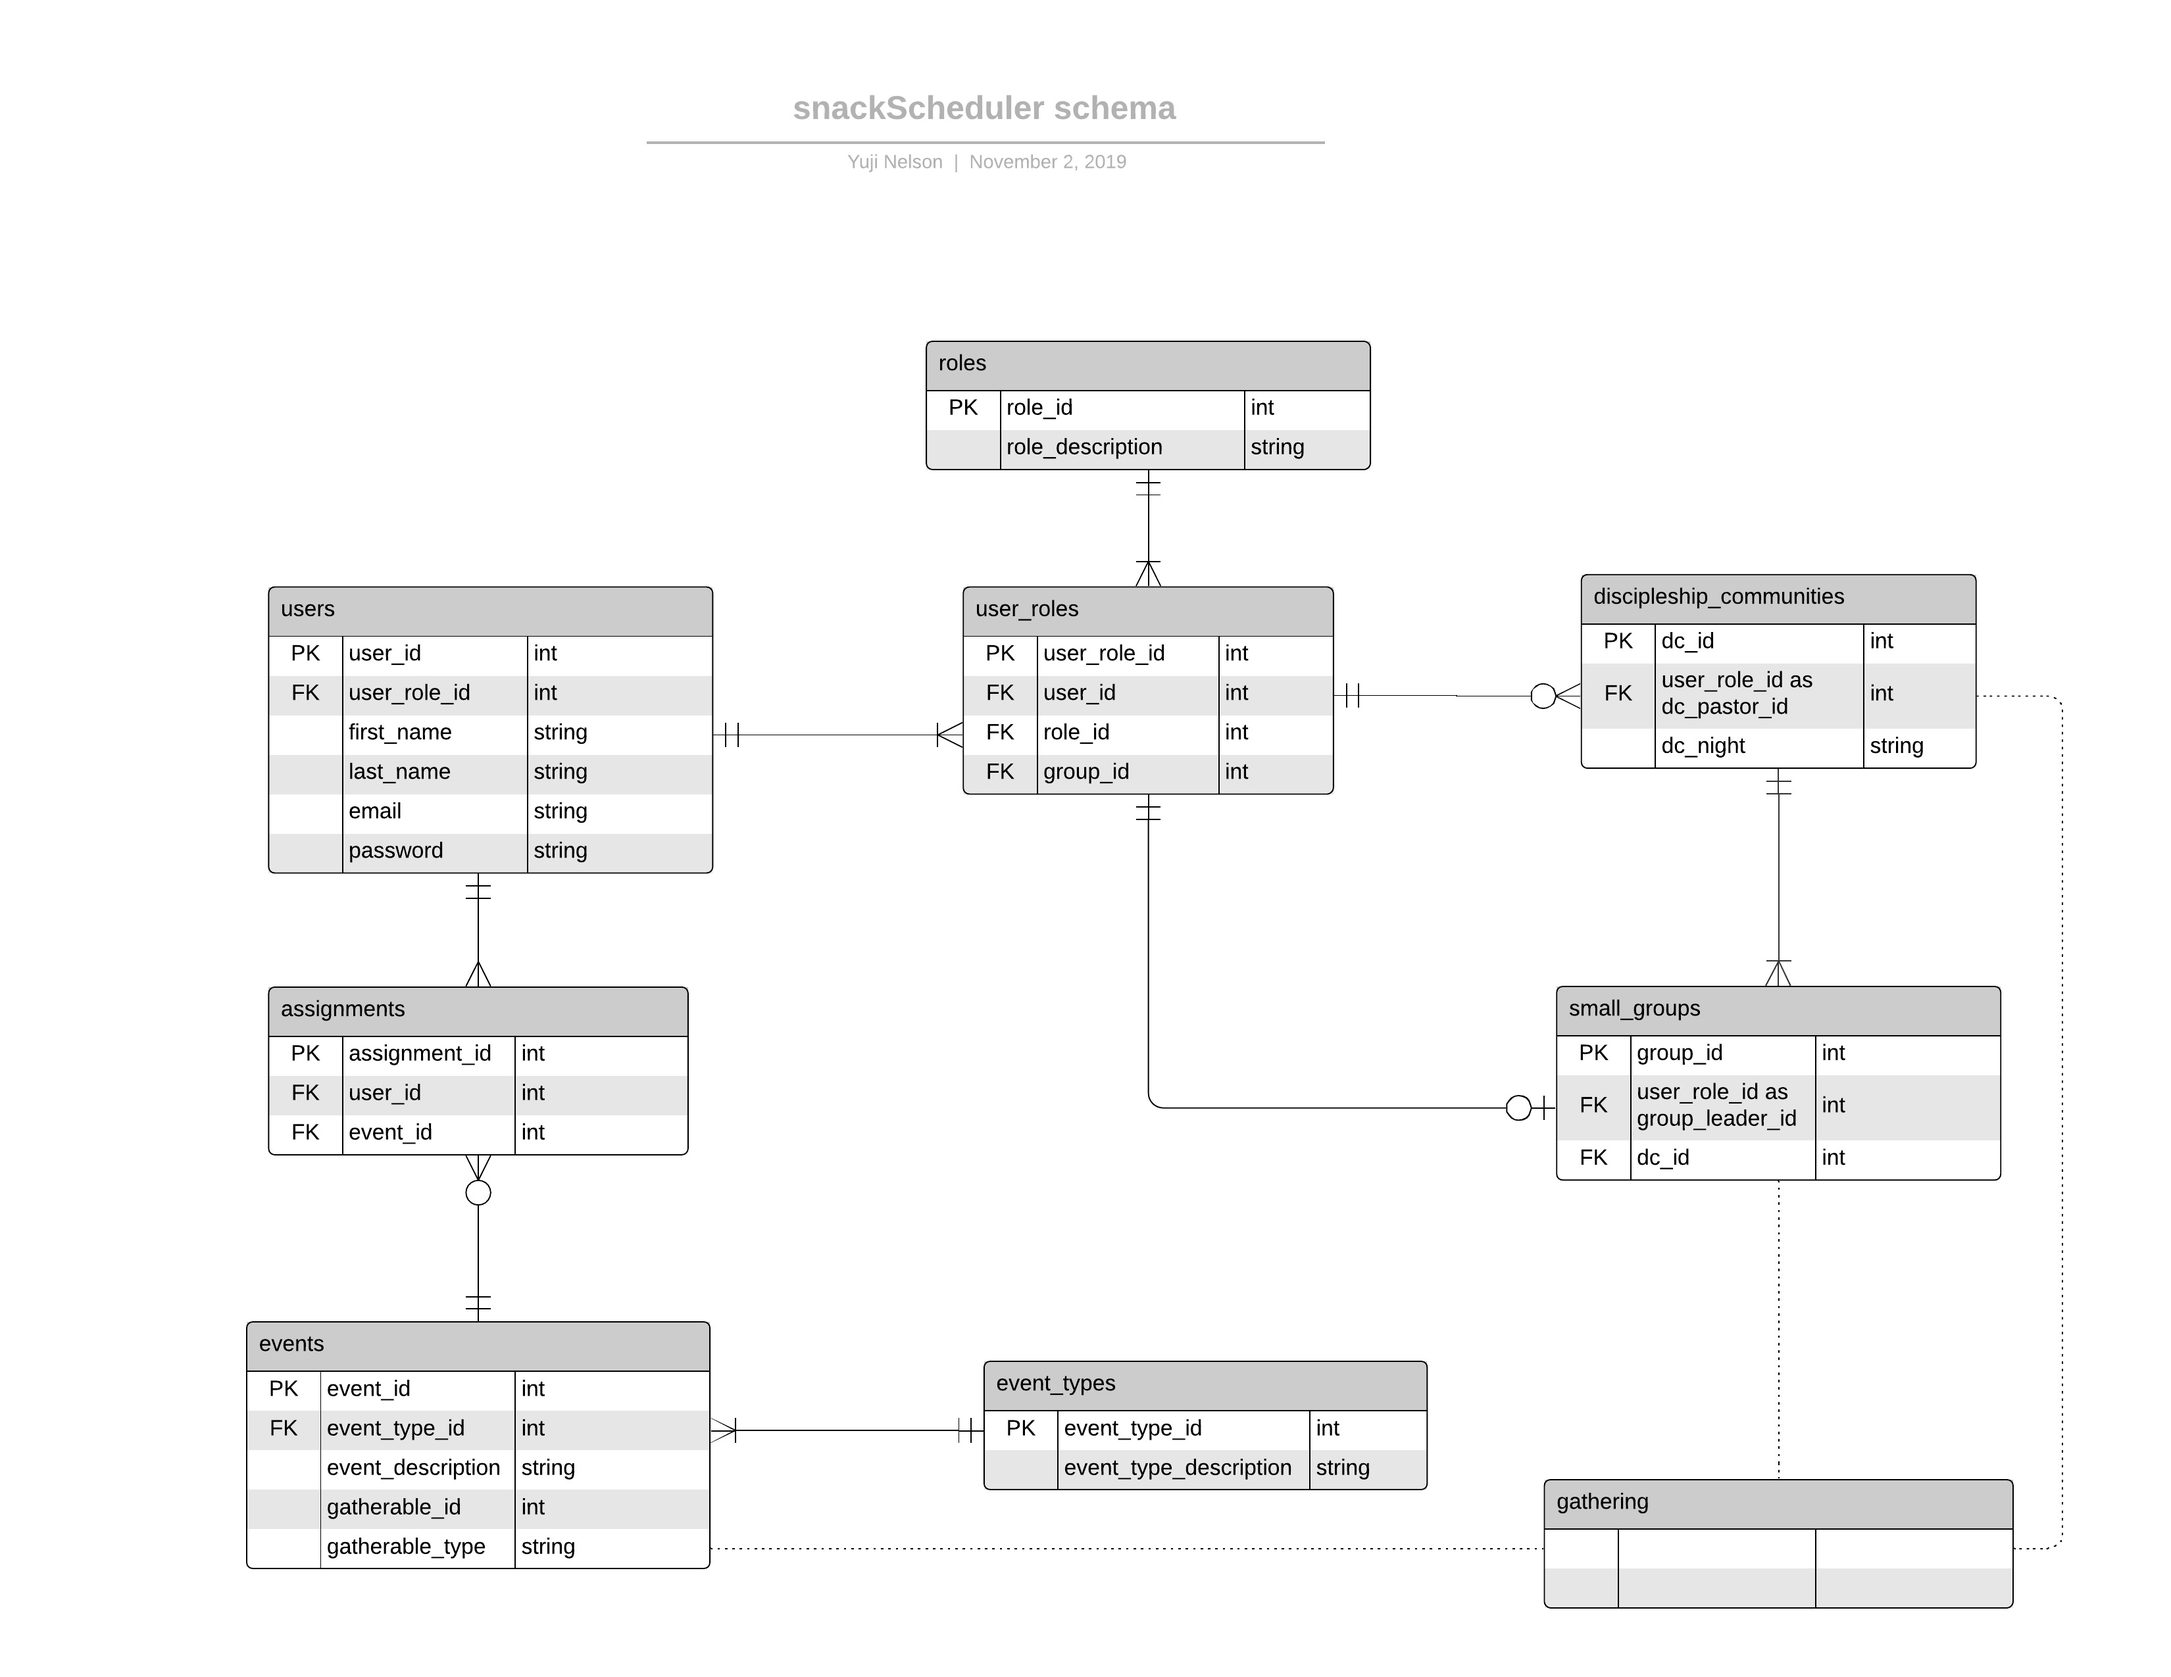
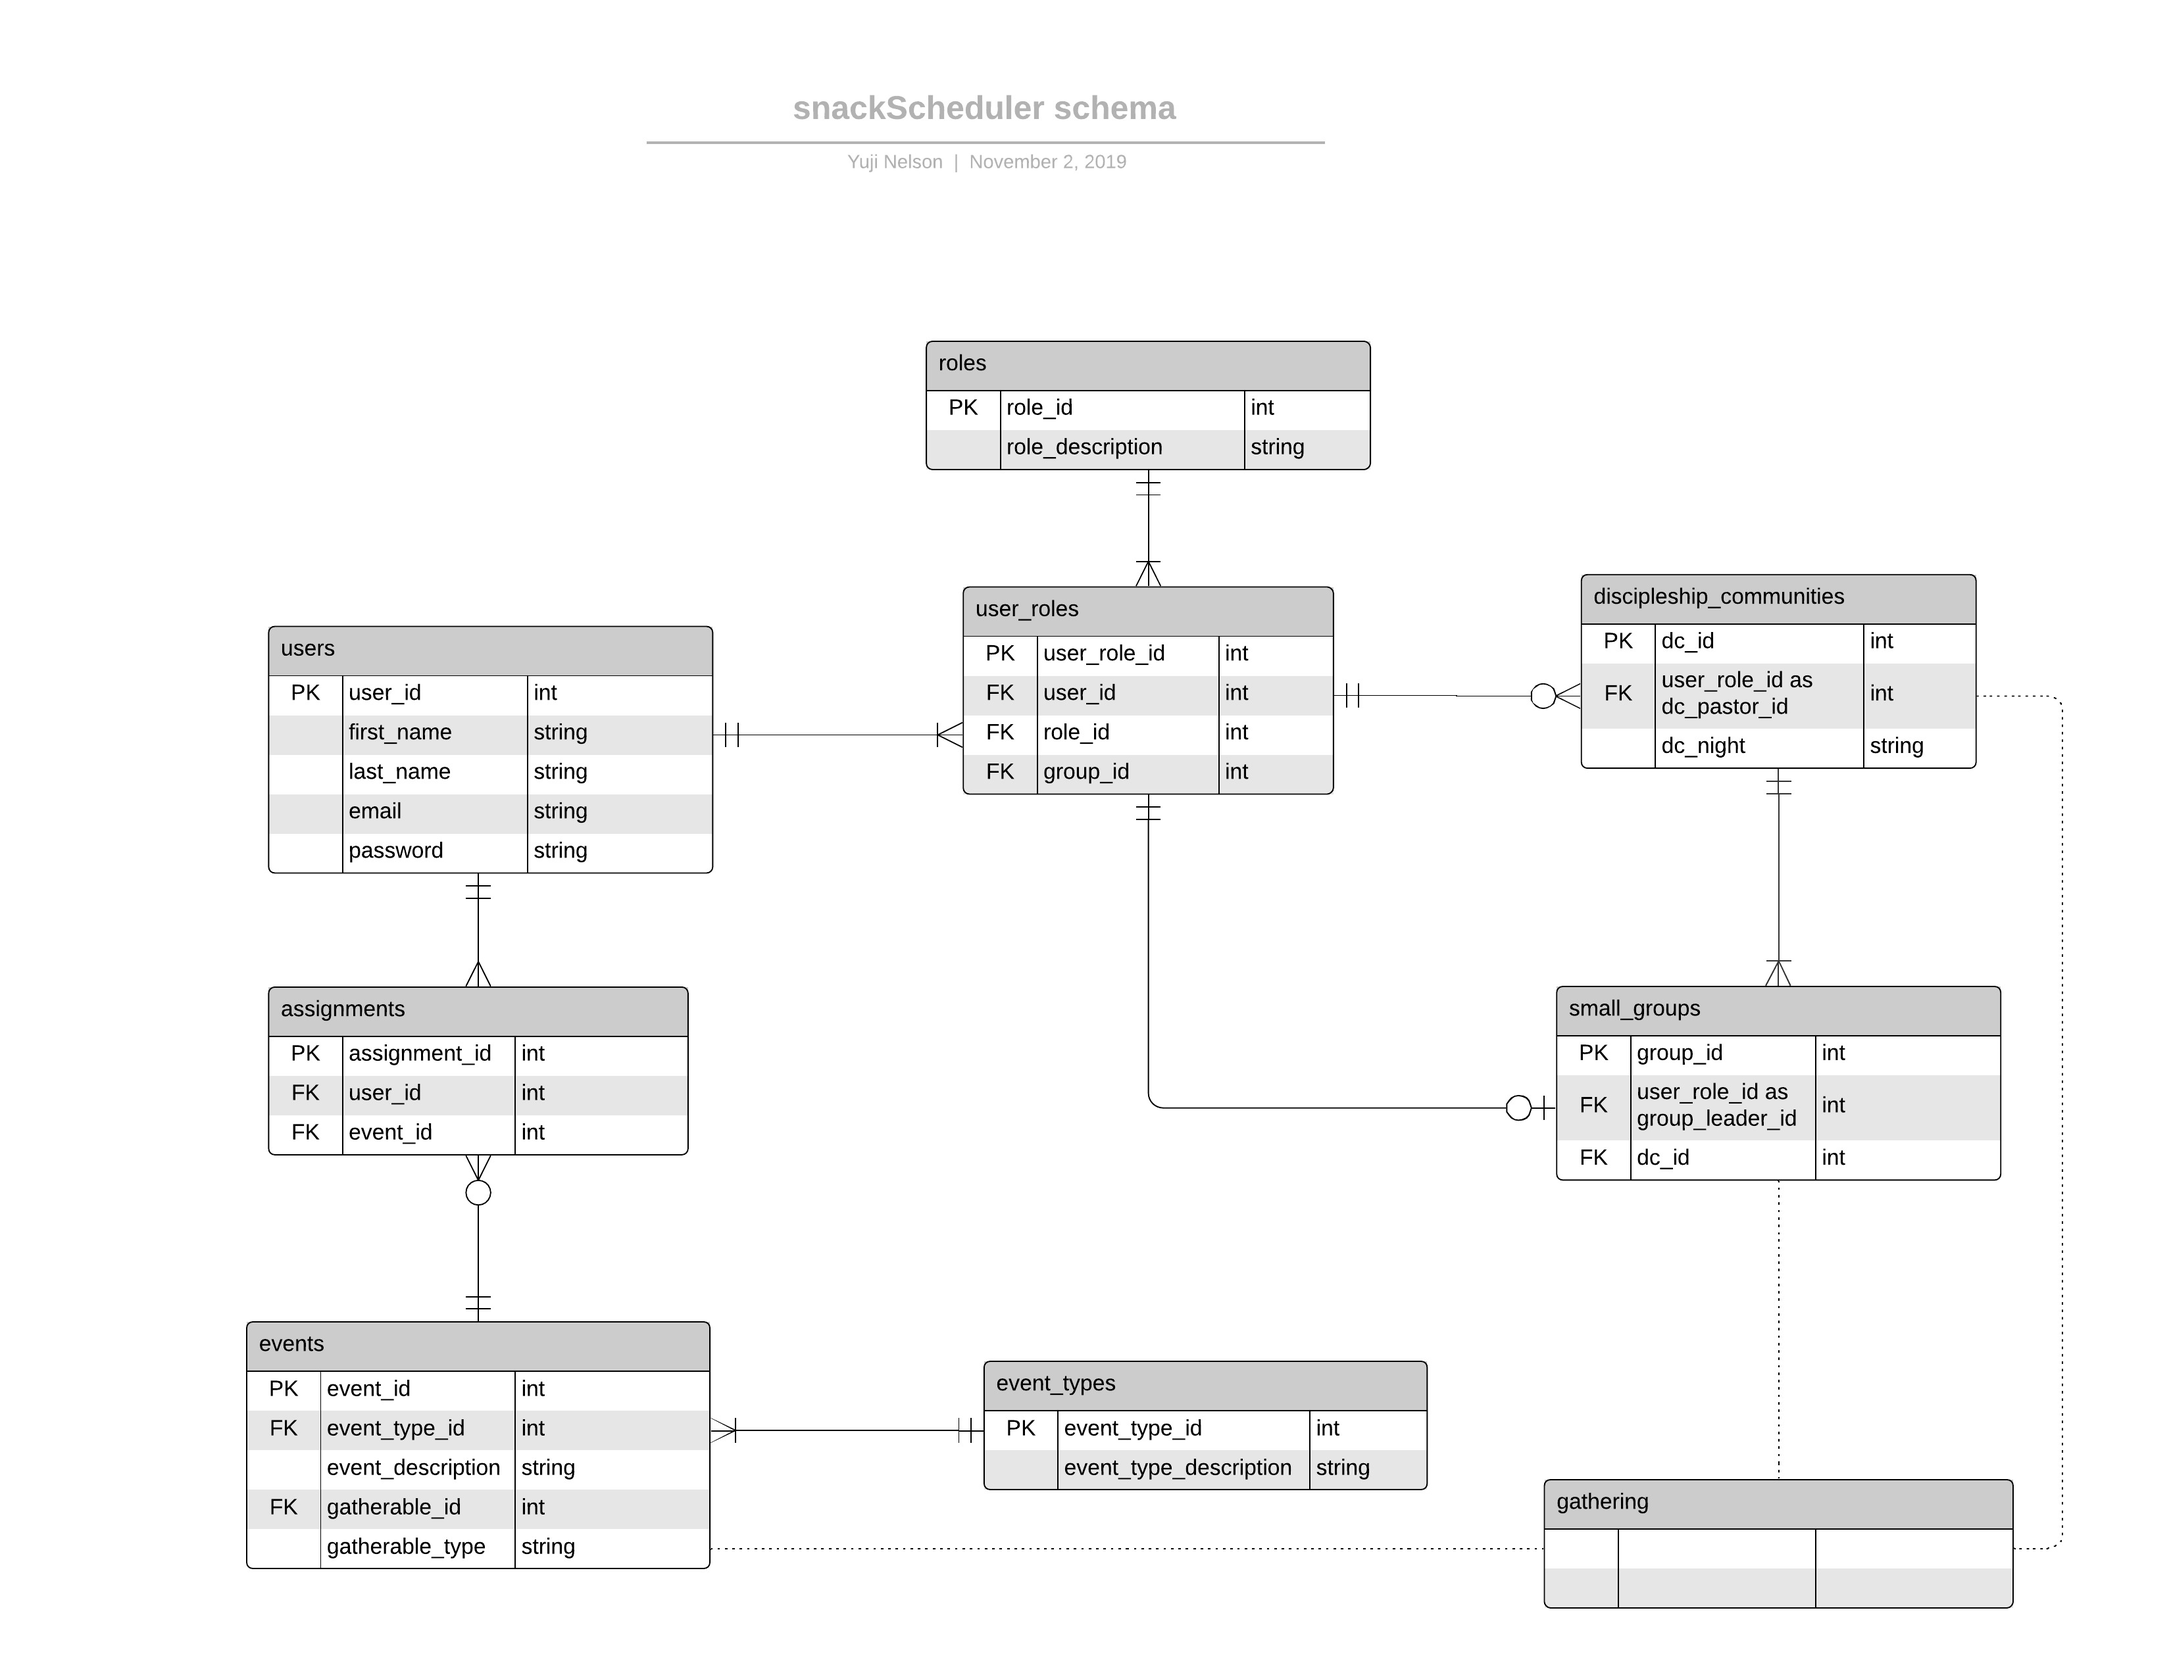
db setup tweaks

Changed region(s): [[0.1248, 0.3408, 0.3433, 0.5267]]

diff --git a/db/schema.rb b/db/schema.rb
@@ -10,7 +10,7 @@
 #
 # It's strongly recommended that you check this file into your version control system.
 
-ActiveRecord::Schema.define(version: 2019_10_21_021255) do
+ActiveRecord::Schema.define(version: 2019_11_03_022533) do
 
   # These are extensions that must be enabled in order to support this database
   enable_extension "plpgsql"
@@ -67,11 +67,11 @@ ActiveRecord::Schema.define(version: 2019_10_21_021255) do
   create_table "user_roles", force: :cascade do |t|
     t.integer "user_id"
     t.integer "role_id"
-    t.integer "group_id"
+    t.integer "small_group_id"
     t.datetime "created_at", precision: 6, null: false
     t.datetime "updated_at", precision: 6, null: false
-    t.index ["group_id"], name: "index_user_roles_on_group_id"
     t.index ["role_id"], name: "index_user_roles_on_role_id"
+    t.index ["small_group_id"], name: "index_user_roles_on_small_group_id"
     t.index ["user_id"], name: "index_user_roles_on_user_id"
   end
 
@@ -82,8 +82,6 @@ ActiveRecord::Schema.define(version: 2019_10_21_021255) do
     t.string "password"
     t.datetime "created_at", precision: 6, null: false
     t.datetime "updated_at", precision: 6, null: false
-    t.integer "user_role_id"
-    t.index ["user_role_id"], name: "index_users_on_user_role_id"
   end
 
 end

diff --git a/app/models/small_group.rb b/app/models/small_group.rb
@@ -1,4 +1,6 @@
 class SmallGroup < ApplicationRecord
+  belongs_to :discipleship_community, foreign_key: "discipleship_community_id"
   belongs_to :user_role, foreign_key: "user_role_id"
+  has_one :user_role
   has_many :events, as: :gatherable
 end

diff --git a/app/models/user_role.rb b/app/models/user_role.rb
@@ -1,5 +1,6 @@
 class UserRole < ApplicationRecord
   belongs_to :role, foreign_key: "role_id"
+  belongs_to :small_group, foreign_key: "group_id"
   belongs_to :user, foreign_key: "user_id"
   has_one :small_group, foreign_key: "small_group_id"
 end

diff --git a/app/models/event.rb b/app/models/event.rb
@@ -1,6 +1,5 @@
 class Event < ApplicationRecord
   belongs_to :event_type, foreign_key: "event_type_id"
   belongs_to :gatherable, polymorphic: true
-  has_one :event_type, foreign_key: "event_type_id"
   has_many :assignments
 end

diff --git a/db/migrate/20191103021340_remove_user_role_id_from_user.rb b/db/migrate/20191103021340_remove_user_role_id_from_user.rb
@@ -1,0 +1,7 @@
+class RemoveUserRoleIdFromUser < ActiveRecord::Migration[6.0]
+  def change
+    remove_index :users, :user_role_id
+
+    remove_column :users, :user_role_id, :int
+  end
+end

diff --git a/app/models/discipleship_community.rb b/app/models/discipleship_community.rb
@@ -1,3 +1,5 @@
 class DiscipleshipCommunity < ApplicationRecord
+  belongs_to :user_role, foreign_key: "user_role_id"
   has_many :events, as: :gatherable
+  has_many :small_groups
 end

diff --git a/db/migrate/20191103022533_change_column_name.rb b/db/migrate/20191103022533_change_column_name.rb
@@ -1,0 +1,5 @@
+class ChangeColumnName < ActiveRecord::Migration[6.0]
+  def change
+    rename_column :user_roles, :group_id, :small_group_id
+  end
+end
